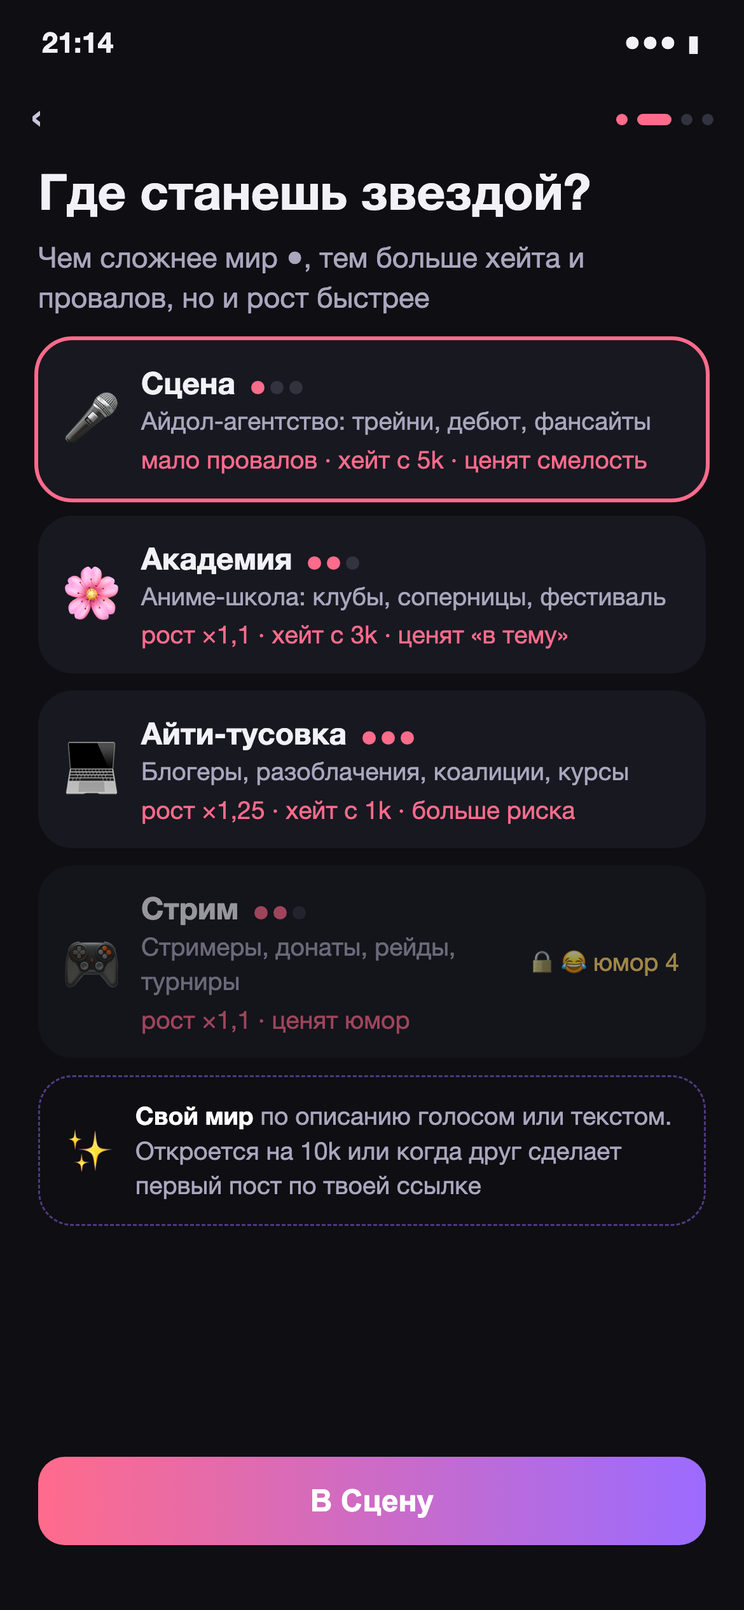
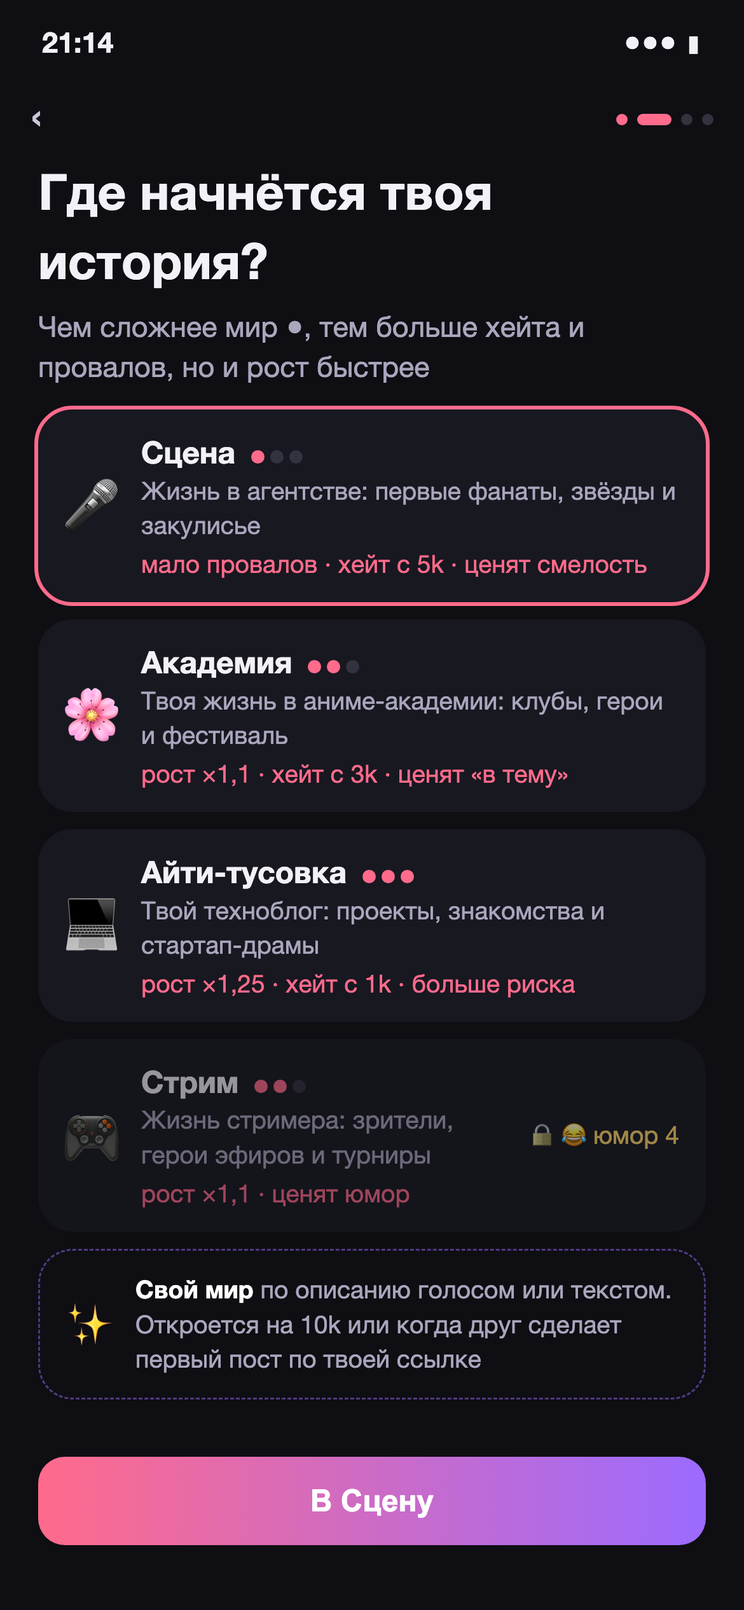
feat: позиционирование симулятора жизни блогера во всех мирах #117

diff --git a/frontend/src/api/worldContent.ts b/frontend/src/api/worldContent.ts
@@ -13,6 +13,7 @@ export interface WorldContent {
   drama: Drama
   description: string
   rules: string[]
+  firstContext: string
   firstPrompt: string
   ideas: string[]
   posts: string[]
@@ -27,9 +28,10 @@ export const WORLD_CONTENT: Record<WorldId, WorldContent> = {
     name: 'Мой дебют', handle: '@first.stage', avatarStyle: 'lorelei', avatarLabel: 'портрет',
     stars: starsFor('stage'),
     voices: ['коротко, с самоиронией', 'ярко, с эмодзи', 'честно, как в дневнике'], drama: 'soft',
-    description: 'Айдол-агентство: репетиции, дебют, камбэки и фансайты.',
+    description: 'Начни жизнь в айдол-агентстве: первые фанаты, внимание звёзд и истории за кулисами.',
     rules: ['Звёзды ценят смелость, юмор и истории о Сцене.', 'Фанаты обсуждают музыку и репетиции. Критика относится к постам, а не к человеку.', 'События: прослушивания, камбэки и коллабы.'],
-    firstPrompt: 'Как прошёл первый день на репетиции?',
+    firstContext: 'Твой блог теперь часть жизни агентства. Начни с истории о музыке, репетициях или закулисье.',
+    firstPrompt: 'Что происходит сегодня в агентстве?',
     ideas: ['Сегодня на репетиции до меня дошло, что…', 'Никто не предупреждал, что перед дебютом…', 'Моя самая смешная ошибка на сцене…'],
     posts: ['На репетиции перепутали право и лево. Теперь это авторская хореография 🫠', 'Новый трек записали с первого дубля. Ладно, с первого после двадцатого.', 'Фансайт заметил новую деталь в тизере раньше самого агентства 👀', 'Перед выходом на сцену страшно всем. Просто у кого-то микрофон громче.', 'Сегодня учились поддерживать друг друга, когда сбивается ритм. Это тоже репетиция.'],
   },
@@ -38,9 +40,10 @@ export const WORLD_CONTENT: Record<WorldId, WorldContent> = {
     name: 'Клуб после уроков', handle: '@after.class', avatarStyle: 'notionists', avatarLabel: 'рисованный персонаж',
     stars: starsFor('academy'),
     voices: ['как в дневнике клуба', 'с юмором и аниме-сравнениями', 'спокойно и по делу'], drama: 'mid',
-    description: 'Аниме-академия: клубы, школьная газета и большой фестиваль.',
+    description: 'Стань частью аниме-академии: найди свой клуб, знакомься с героями и готовься к фестивалю.',
     rules: ['Посты о клубах, дружбе и проектах помогают найти своих читателей.', 'Разные клубы спорят об идеях, но не унижают участников.', 'События: выставки, соревнования и школьный фестиваль.'],
-    firstPrompt: 'Что случилось на первой встрече твоего клуба?',
+    firstContext: 'Ты в Академии: вокруг клубы, проекты и подготовка к фестивалю. Расскажи свою первую историю.',
+    firstPrompt: 'Что случилось сегодня в Академии?',
     ideas: ['Наш клуб готовился к фестивалю, но…', 'Сегодня на занятии мы придумали…', 'Самая неожиданная история после уроков…'],
     posts: ['Наш клуб занял последнее место. Зато баннер теперь висит у входа 🎨', 'Газету распечатали вверх ногами. Читаем с новой точки зрения.', 'Изобретение работает! Правда, пока только как держатель для печенья.', 'На фестивале будет сцена для каждого клуба. Даже для клуба тихого чтения.', 'Манга о подготовке к экзаменам неожиданно превратилась в комедию.'],
   },
@@ -49,9 +52,10 @@ export const WORLD_CONTENT: Record<WorldId, WorldContent> = {
     name: 'Деплой и мемы', handle: '@hello.deploy', avatarStyle: 'pixelArt', avatarLabel: 'пиксель-арт',
     stars: starsFor('it'),
     voices: ['коротко, с айти-самоиронией', 'с фактами и примерами', 'как заметки из лаборатории'], drama: 'mid',
-    description: 'Разработка, AI, стартапы и споры о том, что действительно работает.',
+    description: 'Заведи техноблог: делись проектами, спорь с авторами каналов и попадай в стартап-драмы.',
     rules: ['Ценятся опыт, проверяемые факты и шутки о технологиях.', 'Можно спорить о коде и обещаниях. Нельзя переходить на личность.', 'Персонажи — игровые адаптации, не настоящие авторы каналов.', 'События: релизы, хакатоны, эксперименты и коллабы.'],
-    firstPrompt: 'Что удивило тебя в первом проекте?',
+    firstContext: 'Твой техноблог открыт. Поделись наблюдением о проекте, технологии или жизни в айти.',
+    firstPrompt: 'О чём будет твой первый технопост?',
     ideas: ['Сегодня мой код заработал, когда я…', 'Проверил обещание новой AI-модели и обнаружил…', 'Баг, который оказался фичей, пока…'],
     posts: ['Стартап обещал заменить пять отделов. Пока заменил кнопку «Отправить» на «Спросить AI».', 'Релиз перенесли на понедельник. Самая полезная технология недели — календарь 🍔', 'Проверил модель на собственных тестах: красивое демо ещё не означает стабильный результат 🤖', 'Нашёл баг за пять минут. До этого три часа объяснял себе, почему это невозможно.', 'Цена подписки известна. Цена интеграции выясняется после первой встречи с легаси.'],
   },
@@ -60,9 +64,10 @@ export const WORLD_CONTENT: Record<WorldId, WorldContent> = {
     name: 'Ещё один раунд', handle: '@one.more.round', avatarStyle: 'thumbs', avatarLabel: 'стримерский персонаж',
     stars: starsFor('stream'),
     voices: ['энергично, как в чате', 'с юмором и игровыми сравнениями', 'спокойно, без капслока'], drama: 'mid',
-    description: 'Стримеры, рейды, турниры и чат, который всегда замечает смешное.',
+    description: 'Примерь жизнь стримера: собирай зрителей, знакомься с героями эфиров и обсуждай турниры.',
     rules: ['Истории из игр и самоирония привлекают зрителей.', 'Спорим о матчах, а не о людях. Модераторы следят за границами.', 'События: совместные эфиры, рейды и турниры.'],
-    firstPrompt: 'Что случилось на твоём первом эфире?',
+    firstContext: 'Ты в мире эфиров, игровых чатов и турниров. Начни с истории, которую захочется обсудить.',
+    firstPrompt: 'Какую историю из мира стримов расскажешь?',
     ideas: ['Первый эфир: три зрителя и…', 'Чат попросил ещё один раунд, но…', 'Самый смешной момент матча…'],
     posts: ['Первый эфир: три зрителя. Один я, второй мой второй аккаунт, третий — легенда.', 'Чат голосовал за сложность. Босс голосовал за мой выход в меню.', 'Случайный рейд оказался самым тёплым вечером недели 🫶', 'Сегодня комментировал матч без голоса. Получился самый спокойный стрим.', 'Модераторы нашли новый способ победить токсичность: объяснить правила до матча.'],
   },
@@ -71,8 +76,9 @@ export const WORLD_CONTENT: Record<WorldId, WorldContent> = {
     name: 'Моя история', handle: '@my.story', avatarStyle: 'shapes', avatarLabel: 'абстрактный символ',
     stars: starsFor('own'),
     voices: ['как хроника приключения', 'с юмором и фантазией', 'как личный дневник'], drama: 'soft',
-    description: 'История, персонажи и события, которые придумываешь ты.',
+    description: 'Придумай свою жизнь: выбери мир и роль, веди блог и знакомься с героями своей истории.',
     rules: ['Мир следует твоему описанию.', 'Персонажи обсуждают события и идеи, а не внешность или личность.', 'Безопасность 14+ работает в любом мире.'],
+    firstContext: 'Это твой мир и твоя роль. Первый пост познакомит героев с твоей историей.',
     firstPrompt: 'С какого события начнётся твоя история?',
     ideas: ['В моём мире сегодня впервые…', 'Никто не ожидал, что главный герой…', 'Одна маленькая деталь изменила всё…'],
     posts: ['Сегодня в городе появился новый маршрут. Все пошли искать, куда он ведёт.', 'Герой забыл план приключения. Кажется, так и начинаются лучшие истории.', 'Собрали совет жителей: у каждого была идея, и ни у кого не было печенья.', 'Новая глава началась с самого обычного вопроса: «А что, если?»', 'Маленькая деталь из первой истории вдруг оказалась самой важной.'],

diff --git a/frontend/src/screens/onboarding.tsx b/frontend/src/screens/onboarding.tsx
@@ -3,7 +3,6 @@ import { api } from '../api/client'
 import { worldOf, worlds } from '../api/mock'
 import { contentOf } from '../api/worldContent'
 import type { Address, Drama, Player, WorldId } from '../api/types'
-import { runtimeConfig } from '../app/runtimeConfig'
 import { useNav } from '../app/nav'
 import { useStore } from '../app/store'
 import { Avatar, BottomCTA, Card, Chip, Dots, Segmented, fmt } from '../ui'
@@ -27,21 +26,17 @@ const H1 = ({ children }: { children: React.ReactNode }) => <div style={{ fontSi
 function Invite() {
   const nav = useNav()
   return (
-    <div className="tg screen no-tab">
-      <div className="top" style={{ background: '#0E1621', borderColor: '#1A2533' }}><span style={{ fontSize: 22, color: '#8CC8FF' }}>‹</span><Avatar seed="katya" size={36} /><div><b>Катя</b><div className="small" style={{ color: '#6C8EA8' }}>в сети</div></div></div>
-      <div style={{ padding: 16 }}>
-        <div className="tgb">нашла игру: как симс, только ты блогер. ведёшь свой канал, а AI-звёзды и фанаты реагируют на каждый пост. я уже 5к, го наперегонки</div>
-        <div className="tgb" style={{ padding: 8 }}>
-          <div style={{ background: 'linear-gradient(160deg,#2A1236,#141420 60%,#12203A)', borderRadius: 16, padding: 14, textAlign: 'center' }}>
-            <div className="brand" style={{ fontSize: 16 }}>Реки</div><div className="small" style={{ color: 'var(--soft)' }}>симс, только ты блогер</div>
-            <Avatar seed="katya" size={48} style={{ margin: '10px auto 6px' }} /><b>Катя · ахаха</b>
-            <div style={{ fontSize: 28, fontWeight: 900, background: 'linear-gradient(90deg,#FF6B8B,#FFB86B)', WebkitBackgroundClip: 'text', color: 'transparent' }}>5 120</div>
-            <div className="small">подписчиков за 3 дня</div><div className="small muted">мир 🌸 Академия: аниме-школа</div><div className="small muted" style={{ marginTop: 4 }}>а ты кем будешь?</div>
-          </div>
-        </div>
-        <button className="tgbtn" onClick={() => nav.push('01-2_age')}>▶ Играть в Реки · +5 постов тебе и мне</button>
-        <div className="small" style={{ color: '#6C8EA8', marginTop: 6 }}>21:12 ✓✓</div>
+    <div className="screen no-tab">
+      <div className="pad">
+        <div className="brand" style={{ fontSize: 28 }}>Реки</div>
+        <div className="small muted" style={{ marginTop: 8 }}>Симулятор жизни блогера 🎮</div>
+        <H1>Примерь жизнь блогера, которого обсуждают все</H1>
+        <p className="muted">Пиши посты, собирай виртуальных фанатов, знакомься с персонажами и попадай в интриги 👀</p>
+        <Card><b>120 подписчиков — начало твоей истории</b><p className="small muted">Впереди — путь к миллиону в выдуманном мире. Каждый пост вызывает реакции персонажей.</p></Card>
+        <p className="small muted">Только думаешь о первом посте, уже ведёшь блог или просто хочешь примерить другую жизнь? Здесь можно попробовать любой образ.</p>
+        <div className="small muted">Посты остаются в игре — публиковать их в настоящих соцсетях не нужно.</div>
       </div>
+      <BottomCTA main="Начать свою историю 🎮" onMain={() => nav.push('01-2_age')} />
     </div>
   )
 }
@@ -103,8 +98,8 @@ function World() {
     <div className="screen no-tab">
       <Steps n={2} />
       <div style={{ padding: '4px 20px' }}>
-        <H1>Где станешь звездой?</H1>
-        <div className="muted" style={{ marginBottom: 12 }}>Чем сложнее мир ●, тем больше хейта и провалов, но и рост быстрее</div>
+        <H1>Где начнётся твоя история?</H1>
+        <div className="muted" style={{ marginBottom: 12 }}>Выбери жизнь, которую хочется примерить. Сложность ● влияет на риск и скорость роста.</div>
         {worlds.map(x => (
           <div key={x.id} className="card row" onClick={() => !x.lock && setPick(x.id)} style={{ gap: 12, marginBottom: 9, padding: '11px 14px', outline: x.id === pick ? '2px solid var(--accent)' : 'none', opacity: x.lock ? .6 : 1 }}>
             <div style={{ fontSize: 28 }}>{x.emoji}</div>
@@ -114,7 +109,7 @@ function World() {
           </div>
         ))}
         <div className="card row" style={{ gap: 12, padding: '11px 14px', border: '1px dashed #9B6BFF77', background: 'transparent' }}>
-          <div style={{ fontSize: 24 }}>✨</div><div className="small muted"><b style={{ color: '#fff' }}>Свой мир</b> по описанию голосом или текстом. Откроется на 10k, когда друг сделает первый пост по твоей ссылке, или с Реки+</div>
+          <div style={{ fontSize: 24 }}>✨</div><div className="small muted"><b style={{ color: '#fff' }}>Свой мир</b> — придумай место, роль и героев своей истории. Описание голосом или текстом. Откроется на 10k, когда друг сделает первый пост по твоей ссылке, или с Реки+</div>
         </div>
       </div>
       <BottomCTA main={`В ${worldOf(w.id).acc}`} onMain={() => { track('onboarding_step', { step: 'world', world: pick }); nav.push('01-4_channel', { ...nav.params, world: pick }) }} />
@@ -221,7 +216,7 @@ function FirstStar() {
 // 01-6: первый экран: цель, квест, что такое Реки / навыки / коллекция
 export function ChannelHead() {
   const p = useStore().player!
-  const w = worlds.find(x => x.id === p.world) ?? worlds[0]
+  const w = worldOf(p.world)
   return (
     <div className="top">
       <Avatar seed={p.handle} size={36} />
@@ -241,18 +236,17 @@ export function Home() {
     <div className="screen">
       <ChannelHead />
       <div className="pad">
-        <div className="small muted" style={{ marginBottom: 10 }}>цель игры: 120 → 1 000 000 подписчиков</div>
+        <div className="small muted" style={{ marginBottom: 10 }}>Твой блог. Твои знакомства. Твой путь к миллиону.</div>
         <div className="card" style={{ padding: 18, border: '1px solid #FF6B8B66', background: 'linear-gradient(160deg,#2A1A2E,#181821)' }}>
-          <div className="row" style={{ marginBottom: 12 }}><Avatar seed={star.id} size={44} /><div><b>{star.name} · первый подписчик</b><div className="small muted">{star.role} · ждёт твой первый пост</div></div></div>
+          <div className="row" style={{ marginBottom: 12 }}><Avatar seed={star.id} size={44} /><div><b>Тебя заметил персонаж: {star.name} 👀</b><div className="small muted">{star.role} · подписка на твой блог</div></div></div>
+          <p className="small muted">{profile.firstContext}</p>
           <div style={{ fontSize: 20, fontWeight: 800, marginBottom: 16 }}>{profile.firstPrompt}</div>
           {(p?.firstPostInviteBonus ?? 0) > 0 && <div className="gift" style={{ marginBottom: 12 }}>🎁 Первый пост даст ещё {p?.firstPostInviteBonus} ходов. Начни с любой идеи!</div>}
           <button className="btn" onClick={() => nav.push('02-1_compose')}>Написать первый пост</button>
-          <div style={{ textAlign: 'center', marginTop: 10, fontSize: 14, color: 'var(--lilac)' }}>Нет идей? Внутри есть «Подскажи»</div>
+          <div style={{ textAlign: 'center', marginTop: 10, fontSize: 14, color: 'var(--lilac)' }}>Не знаешь, что написать? Начни с подсказки ✨</div>
         </div>
-        <div className="card small" style={{ marginTop: 12, color: 'var(--soft)', padding: '6px 14px' }}>
-          {[['🌊', 'Реки', 'общая лента. Хороший пост залетает туда, и приходят тысячи фанатов'], ['📈', 'Навыки', 'смелость, юмор, в тему растут от постов и открывают новые приёмы и миры'], ...(runtimeConfig.features.collection ? [['🃏', 'Коллекция', 'карточки звёзд и моментов']] : [])].map(([e, t, d], i) => (
-            <div key={t} className="row" style={{ gap: 12, padding: '8px 0', borderBottom: i < 2 ? '1px solid var(--line2)' : 'none' }}><div style={{ fontSize: 22 }}>{e}</div><div><b style={{ color: '#fff' }}>{t}</b> {d}</div></div>
-          ))}
+        <div className="card small" style={{ marginTop: 12, color: 'var(--soft)' }}>
+          Пиши посты → получай реакции → влияй на свою историю
         </div>
       </div>
     </div>

diff --git a/frontend/src/api/mock.ts b/frontend/src/api/mock.ts
@@ -3,10 +3,10 @@ import { WORLD_CONTENT } from './worldContent'
 import type { Challenge, Dm, FeedItem, Friend, GameEvent, Player, Post, PostResult, ReplyResult, Star, World, WorldRules } from './types'
 
 export const worlds: World[] = [
-  { id: 'stage', title: 'Сцена', emoji: '🎤', description: 'Айдол-агентство: трейни, дебют, фансайты', difficulty: 1, summary: 'мало провалов · хейт с 5k · ценят смелость' },
-  { id: 'academy', title: 'Академия', emoji: '🌸', description: 'Аниме-школа: клубы, соперницы, фестиваль', difficulty: 2, summary: 'рост ×1,1 · хейт с 3k · ценят «в тему»' },
-  { id: 'it', title: 'Айти-тусовка', emoji: '💻', description: 'Блогеры, разоблачения, коалиции, курсы', difficulty: 3, summary: 'рост ×1,25 · хейт с 1k · больше риска' },
-  { id: 'stream', title: 'Стрим', emoji: '🎮', description: 'Стримеры, донаты, рейды, турниры', difficulty: 2, summary: 'рост ×1,1 · ценят юмор', lock: { skill: 'humor', level: 4 } },
+  { id: 'stage', title: 'Сцена', emoji: '🎤', description: 'Жизнь в агентстве: первые фанаты, звёзды и закулисье', difficulty: 1, summary: 'мало провалов · хейт с 5k · ценят смелость' },
+  { id: 'academy', title: 'Академия', emoji: '🌸', description: 'Твоя жизнь в аниме-академии: клубы, герои и фестиваль', difficulty: 2, summary: 'рост ×1,1 · хейт с 3k · ценят «в тему»' },
+  { id: 'it', title: 'Айти-тусовка', emoji: '💻', description: 'Твой техноблог: проекты, знакомства и стартап-драмы', difficulty: 3, summary: 'рост ×1,25 · хейт с 1k · больше риска' },
+  { id: 'stream', title: 'Стрим', emoji: '🎮', description: 'Жизнь стримера: зрители, герои эфиров и турниры', difficulty: 2, summary: 'рост ×1,1 · ценят юмор', lock: { skill: 'humor', level: 4 } },
 ]
 export const roles = ['🎤 Трейни', '📸 Фансайт', '💃 Хореограф', '🎧 Продюсер']
 

diff --git a/frontend/src/app/TelegramLaunch.tsx b/frontend/src/app/TelegramLaunch.tsx
@@ -14,11 +14,11 @@ export function TelegramLaunch() {
       <div className="telegram-launch__brand">реки</div>
       <section className="telegram-launch__content" aria-labelledby="telegram-launch-title">
         <div className="telegram-launch__icon"><TelegramMark /></div>
-        <h1 id="telegram-launch-title">Продолжим в Telegram</h1>
-        <p>«Реки» работают как мини-приложение. Открой игру в Telegram, чтобы войти и сохранить прогресс.</p>
+        <h1 id="telegram-launch-title">Примерь жизнь блогера</h1>
+        <p>«Реки» — симулятор жизни блогера в выдуманном мире. Пиши посты, собирай виртуальных фанатов и знакомься с персонажами.</p>
         <a className="telegram-launch__button" href={TELEGRAM_APP_URL}>Открыть в Telegram</a>
       </section>
-      <p className="telegram-launch__hint">В Telegram нажми «Старт», затем открой игру.</p>
+      <p className="telegram-launch__hint">Начинаешь со 120 подписчиков. Впереди — путь к миллиону. Можно просто примерить другую жизнь.</p>
     </main>
   )
 }

diff --git a/docs/design/src/journey_v14.py b/docs/design/src/journey_v14.py
@@ -1,0 +1,12 @@
+# #117: симулятор жизни блогера, 11.10.2026.
+S['01-1_invite'] = P(f'''<div style="padding:20px"><div class="brand" style="font-size:28px">Реки</div><p class="small muted">Симулятор жизни блогера 🎮</p><h1 style="font-size:26px">Примерь жизнь блогера, которого обсуждают все</h1><p class="muted">Пиши посты, собирай виртуальных фанатов, знакомься с персонажами и попадай в интриги 👀</p><div class="card"><b>120 подписчиков — начало твоей истории</b><p class="small muted">Впереди — путь к миллиону в выдуманном мире. Каждый пост вызывает реакции персонажей.</p></div><p class="small muted">Только думаешь о первом посте, уже ведёшь блог или просто хочешь примерить другую жизнь? Здесь можно попробовать любой образ.</p><p class="small muted">Посты остаются в игре — публиковать их в настоящих соцсетях не нужно.</p></div>{BTN('Начать свою историю 🎮')}''')
+for old, new in {
+ 'Где станешь звездой?': 'Где начнётся твоя история?',
+ 'Айдол-агентство: трейни, дебют, фансайты': 'Жизнь в агентстве: первые фанаты, звёзды и закулисье',
+ 'Аниме-школа: клубы, соперницы, фестиваль': 'Твоя жизнь в аниме-академии: клубы, герои и фестиваль',
+ 'Блогеры, разоблачения, коалиции, курсы': 'Твой техноблог: проекты, знакомства и стартап-драмы',
+ 'Стримеры, донаты, рейды, турниры': 'Жизнь стримера: зрители, герои эфиров и турниры',
+}.items():
+ assert old in S['01-3_world'], old
+ S['01-3_world'] = S['01-3_world'].replace(old,new)
+S['01-6_home'] = P(f'''{HEAD('120','10')}<div style="padding:16px"><p class="small muted">Твой блог. Твои знакомства. Твой путь к миллиону.</p><div class="card" style="padding:18px;border:1px solid #FF6B8B66;background:linear-gradient(160deg,#2A1A2E,#181821)"><div style="display:flex;gap:12px;align-items:center">{ava('М','g1',44)}<div><b>Тебя заметил персонаж: Мира 👀</b><div class="small muted">лидер BLESK · подписка на твой блог</div></div></div><p class="small muted">Твой блог теперь часть жизни агентства. Начни с истории о музыке, репетициях или закулисье.</p><h2 style="font-size:20px">Что происходит сегодня в агентстве?</h2><div class="btn">Написать первый пост</div><p class="small" style="text-align:center;color:#C0A0FF">Не знаешь, что написать? Начни с подсказки ✨</p></div><div class="card small">Пиши посты → получай реакции → влияй на свою историю</div></div>''')

diff --git a/scripts/update_bot_description.py b/scripts/update_bot_description.py
@@ -1,0 +1,50 @@
+"""Publish approved public copy using the deployment's bot credential."""
+import json
+import os
+from pathlib import Path
+import urllib.request
+
+
+def main():
+    text = Path('docs/positioning.md').read_text(encoding='utf-8')
+    description = text.split('## Описание игрового бота\n\n', 1)[1].split('\n\nКороткое описание:', 1)[0].strip()
+    short = text.split('Короткое описание: ', 1)[1].split('\n', 1)[0].strip()
+    if len(description) > 512 or len(short) > 120:
+        raise RuntimeError('Description exceeds Telegram limits')
+    credential = os.environ['TG_PAT']
+
+    def call(method, data=None):
+        req = urllib.request.Request(
+            'https://api.telegram.org/bot' + credential + '/' + method,
+            data=json.dumps(data or {}).encode(), headers={'Content-Type': 'application/json'},
+        )
+        try:
+            with urllib.request.urlopen(req, timeout=30) as response:
+                result = json.load(response)
+        except Exception:
+            raise RuntimeError('Telegram request failed; credential and request URL withheld') from None
+        if not result.get('ok'):
+            raise RuntimeError('Telegram rejected description update')
+        return result['result']
+
+    if call('getMe')['username'] != 'reki_appbot':
+        raise RuntimeError('Credential does not belong to the game bot')
+    previous = {}
+    for language in ('', 'ru'):
+        previous[language] = {
+            'description': call('getMyDescription', {'language_code': language})['description'],
+            'short_description': call('getMyShortDescription', {'language_code': language})['short_description'],
+        }
+    Path('bot-description-before.json').write_text(json.dumps(previous, ensure_ascii=False, indent=2), encoding='utf-8')
+    for language in ('', 'ru'):
+        call('setMyDescription', {'description': description, 'language_code': language})
+        call('setMyShortDescription', {'short_description': short, 'language_code': language})
+        if call('getMyDescription', {'language_code': language})['description'] != description:
+            raise RuntimeError('Description verification failed')
+        if call('getMyShortDescription', {'language_code': language})['short_description'] != short:
+            raise RuntimeError('Short description verification failed')
+    print('Game bot description verified (default and Russian)')
+
+
+if __name__ == '__main__':
+    main()

diff --git a/docs/design/src/build_journey.py b/docs/design/src/build_journey.py
@@ -310,6 +310,8 @@ exec(open(os.path.join(D, 'journey_v12.py'), encoding='utf-8').read())  # #92
 
 exec(open(os.path.join(D, 'journey_v13.py'), encoding='utf-8').read())  # #94–96
 
+exec(open(os.path.join(D, 'journey_v14.py'), encoding='utf-8').read())  # #117
+
 CH = os.environ.get('CHROME_BIN') or shutil.which('google-chrome') or shutil.which('chrome')
 if not CH and os.name == 'nt':
     CH = os.path.join(os.environ.get('PROGRAMFILES', 'C:\\Program Files'), 'Google', 'Chrome', 'Application', 'chrome.exe')

diff --git a/docs/game-flow.md b/docs/game-flow.md
@@ -2,7 +2,9 @@
 
 Источник правды для разработки. Все числа одним файлом: [config/balance.json](config/balance.json), бэкенд: [backend-spec.md](backend-spec.md). Экраны: [screens/](screens/README.md), задачи: [issues](https://github.com/Stepami/golden-mouth/issues). Если экран и этот файл расходятся, прав этот файл.
 
-**Что это.** Telegram Mini App 14+. Игрок ведёт канал блогера в вымышленном мире, AI-звёзды и фанаты реагируют на каждый его пост. Цель: 120 → 1 000 000 подписчиков.
+**Что это.** Telegram Mini App 14+ — симулятор жизни блогера в выдуманном мире. Игрок примеряет роль, пишет посты, собирает виртуальных фанатов и знакомится с персонажами. Вход открыт для тех, кто хочет начать блог, уже ведёт его или просто хочет прожить другую жизнь. Цель: 120 → 1 000 000 подписчиков.
+
+**Решено 11.10.2026:** объясняем роль и удовольствие от игры до онбординга. Виртуальная популярность относится к игре, а не к обещанию роста настоящего блога. Тексты всех пресетов соответствуют их ролям и контенту; баланс и условия открытия не меняются.
 
 ## Словарь
 
@@ -25,7 +27,7 @@
 5. **Канал:** роль в мире, название и ник, «как к тебе обращаться: она / он / по нику». Превью показывает выбранную роль; био убрано.
 6. **Как устроен мир:** правила выбранного мира, голос канала и градус драмы. Настройки сохраняются через PATCH /settings после успешного создания игрока через POST /onboarding.
 7. **Первая звезда** из трёх. Она подписывается и ждёт первый пост.
-8. **Первый экран:** цель, квест «первый пост», три строки «что такое Реки, навыки, коллекция».
+8. **Первый экран:** «Твой блог. Твои знакомства. Твой путь к миллиону», выбранный персонаж-подписчик, контекст выбранного мира, квест «первый пост» и короткий цикл «Пиши посты → получай реакции → влияй на свою историю». Подробности навыков и коллекции остаются на соответствующих экранах.
 
 **Решено 07.10.2026:** при повторном входе экран с квестом «первый пост» показываем только пока у игрока нет опубликованных постов. После первой публикации сразу открываем канал (03-5). Если проверить публикации не удалось, открываем канал с возможностью повторить загрузку, чтобы не показывать ложный квест первого поста.
 

diff --git a/docs/screens/README.md b/docs/screens/README.md
@@ -6,14 +6,14 @@
 
 | Экран | Что показывает |
 |---|---|
-| [01-1_invite](01-1_invite.png) | Друг сам прислал карточку со статами и кнопкой «Играть» (бот никому не пишет первым) |
+| [01-1_invite](01-1_invite.png) | Знакомство с симулятором жизни блогера: роль, виртуальные фанаты и начало истории |
 | [01-2_age](01-2_age.png) | Год рождения колёсиком (без подсказки «есть 14»), согласие отдельной галочкой. Младше 14: экран отказа, ничего не сохраняем |
 | [01-2b_under14](01-2b_under14.png) | Младше 14 по году: мягкий отказ, ничего не сохранили |
 | [01-3_world](01-3_world.png) | Выбор мира со сложностью ●–●●●: сразу открыты Сцена, Академия, Айти-тусовка (вход для парней); Стрим на юмор 4. «Свой мир» на 10k, первого друга или Реки+ |
 | [01-4_channel](01-4_channel.png) | Роль в мире, название и ник (аватарка собирается из ника), «как к тебе обращаться: она / он / по нику», Превью роли; стиль аватара зависит от мира, без био |
 | [01-4b_world_setup](01-4b_world_setup.png) | Правила выбранного мира, голос канала и градус драмы; settings после onboarding |
 | [01-5_first_star](01-5_first_star.png) | Первая звезда мира из трёх |
-| [01-6_home](01-6_home.png) | Первый экран после онбординга и при повторном входе без опубликованных постов: цель 120 → 1M, квест «первый пост» от звезды, три строки «Реки, навыки, коллекция» |
+| [01-6_home](01-6_home.png) | Первый экран после онбординга и при повторном входе без опубликованных постов: роль и путь к миллиону, выбранный персонаж, контекст мира, первый пост и короткий игровой цикл |
 
 ## 2. Ход
 

diff --git a/docs/positioning.md b/docs/positioning.md
@@ -1,0 +1,27 @@
+# Позиционирование «Рек»
+
+Решено 11.10.2026, #117. «Реки» — симулятор жизни блогера в выдуманном мире. Вход открыт для начинающих, действующих блогеров и тех, кто просто хочет примерить другую жизнь. Игра не обещает роста настоящего блога.
+
+## Описание игрового бота
+
+«Реки» — симулятор жизни блогера 🎮
+
+Каково это — стать человеком, которого обсуждают все?
+
+Пиши посты, собирай виртуальных фанатов, знакомься с персонажами и попадай в интриги. Начинаешь со 120 подписчиков — впереди путь к миллиону 👀
+
+Только мечтаешь о первом посте, уже ведёшь блог или просто хочешь примерить другую жизнь? Начни свою историю ↓
+
+Короткое описание: Симулятор жизни блогера 🎮 Посты, виртуальные фанаты, знакомства с персонажами и путь к миллиону.
+
+## Миры
+
+| Мир | Что примеряет игрок |
+|---|---|
+| Сцена | Жизнь в агентстве: первые фанаты, звёзды и закулисье |
+| Академия | Жизнь в аниме-академии: клубы, герои и фестиваль |
+| Айти-тусовка | Техноблог: проекты, знакомства и стартап-драмы |
+| Стрим | Жизнь стримера: зрители, герои эфиров и турниры |
+| Свой мир | Своя роль, место и герои истории |
+
+Условия открытия сохраняются. Первый пост не предполагает одну роль для всех игроков мира. Выключенные возможности, включая личные сообщения, не обещаются на входе.
